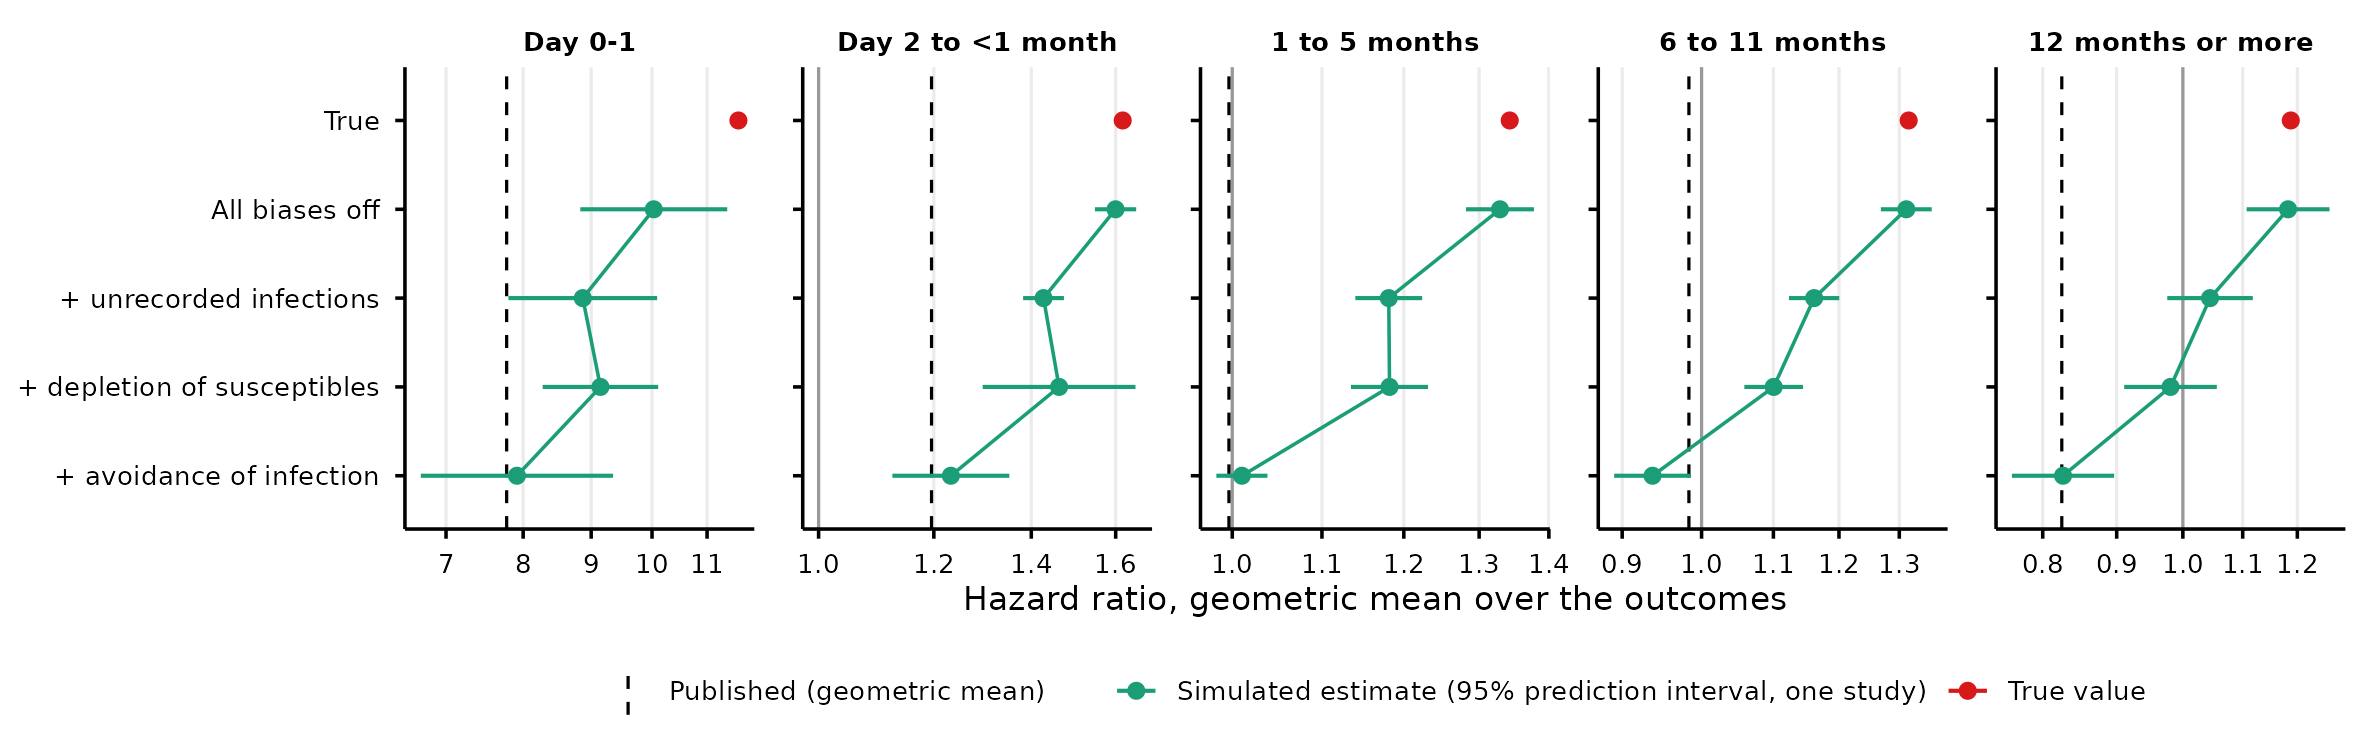
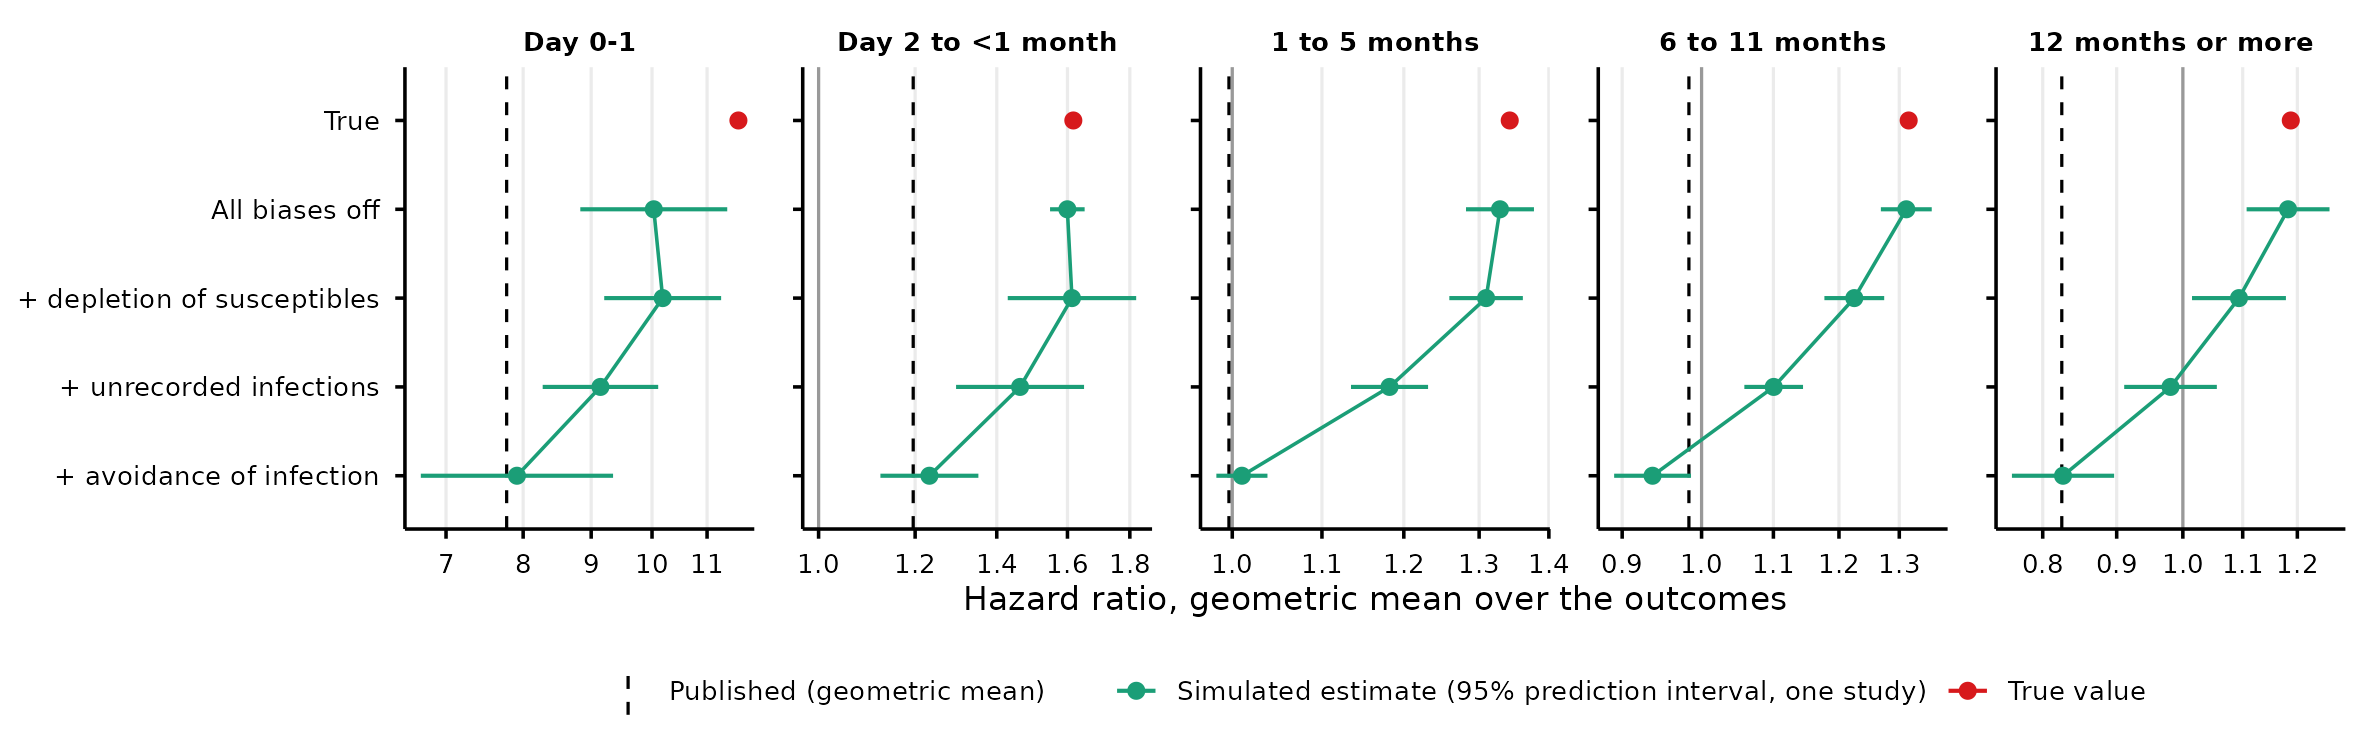
Put depletion of susceptibles first among the biases
Bias.R adds depletion of susceptibles first, then unrecorded
infections, then avoidance of infection. This needs one new setting:
depletion on alone. The full model is unchanged.

diff --git a/README.md b/README.md
@@ -39,7 +39,7 @@ These patterns point to bias, not protection. Persons infected in 2020 and 2021 
 1.  **Cohort.** `Run.R` simulates 10 cohorts of 4,508,489 persons, with the paper’s age distribution and follow-up from 1 March 2020 to 31 December 2022.
 2.  **Infections.** 2,698,261 persons get a recorded infection, as in the paper, timed by the Danish case counts. One third of all infections are unrecorded.
 3.  **True effects.** Each infection multiplies the hazard of each of 15 cardiovascular outcomes by a true hazard ratio for each time window. Every true hazard ratio is at least 1.01.
-4.  **Biases.** Unrecorded infections, depletion of susceptibles and avoidance of infection are built in. The model also lets infection kill some persons. This changes the estimates by 3% or less, so it is not treated as a bias.
+4.  **Biases.** Depletion of susceptibles, unrecorded infections and avoidance of infection are built in. The model also lets infection kill some persons. This changes the estimates by 3% or less, so it is not treated as a bias.
 5.  **Analysis.** Each cohort is analysed approximately as the paper does: one Poisson model per outcome, with person-time split by time window, 5-year age band and calendar year.
 
 The true hazard ratios are fitted, so that the simulated estimates match the published ones. They are at least 1.01 and do not increase with time since infection. [The model](#the-model) gives every input and its source.
@@ -93,29 +93,29 @@ In the 12 months after a recorded infection, the risk of a first cardiovascular 
 
 Each bias below has an example with 100 persons per group. In each example, infection multiplies every person’s risk by 1.20, so the true ratio is 1.20. A high-risk person has a 50% risk and a low-risk person a 5% risk. After each example comes what the bias does in the simulation, at 12 months or more. The biases are added one at a time, in this order.
 
-### Unrecorded infections
-
-About one third of infections in the Omicron wave were not recorded, so some infected persons stay in the comparison group and raise its risk. In the example, 50 of 150 infections are unrecorded, and the study sees 1.09.
-
-**In the simulation:** 1.18 to 1.04.
-
-![Unrecorded infections](figures/illustration_unrecorded.png)
-
 ### Depletion of susceptibles
 
 Infection brings diagnoses forward, most of all in high-risk persons. A person diagnosed is no longer followed. So after a year, the infected group has fewer high-risk persons left than the comparison group. In the example, year 1 shows the true ratio, and year 2 shows 1.10. The paper adds to this: it stops follow-up for every outcome at the first diagnosis of any of the 15 outcomes.
 
-**In the simulation:** 1.04 to 0.98. Depletion needs time to act, so it lowers the estimates only from 6 months on. The table gives the simulated average without and with depletion, with unrecorded infections in both:
+**In the simulation:** 1.18 to 1.09. Depletion needs time to act, so its effect grows with time since infection. The table gives the simulated average without and with depletion, with the other biases off:
 
 | Time window        | Without depletion | With depletion |
 |:-------------------|------------------:|---------------:|
-| Day 0-1            |              8.87 |           9.15 |
-| Day 2 to \<1 month |              1.43 |           1.46 |
-| 1 to 5 months      |              1.18 |           1.18 |
-| 6 to 11 months     |              1.16 |           1.10 |
-| 12 months or more  |              1.04 |           0.98 |
+| Day 0-1            |             10.03 |          10.19 |
+| Day 2 to \<1 month |              1.60 |           1.61 |
+| 1 to 5 months      |              1.33 |           1.31 |
+| 6 to 11 months     |              1.31 |           1.22 |
+| 12 months or more  |              1.18 |           1.09 |
 
 ![Depletion of susceptibles](figures/illustration_depletion.png)
+
+### Unrecorded infections
+
+About one third of infections in the Omicron wave were not recorded, so some infected persons stay in the comparison group and raise its risk. In the example, 50 of 150 infections are unrecorded, and the study sees 1.09.
+
+**In the simulation:** 1.09 to 0.98.
+
+![Unrecorded infections](figures/illustration_unrecorded.png)
 
 ### Avoidance of infection
 
@@ -141,8 +141,8 @@ Each point is the simulated average, with its 95% prediction interval for one st
 |:---|---:|---:|---:|---:|---:|
 | True | 11.61 | 1.62 | 1.34 | 1.32 | 1.19 |
 | All biases off | 10.03 | 1.60 | 1.33 | 1.31 | 1.18 |
-| \+ unrecorded infections | 8.87 | 1.43 | 1.18 | 1.16 | 1.04 |
-| \+ depletion of susceptibles | 9.15 | 1.46 | 1.18 | 1.10 | 0.98 |
+| \+ depletion of susceptibles | 10.19 | 1.61 | 1.31 | 1.22 | 1.09 |
+| \+ unrecorded infections | 9.15 | 1.46 | 1.18 | 1.10 | 0.98 |
 | \+ avoidance of infection | 7.91 | 1.23 | 1.01 | 0.94 | 0.83 |
 | Published | 7.77 | 1.20 | 1.00 | 0.98 | 0.82 |
 
@@ -361,7 +361,7 @@ The values in the first figure, in its order. The last column is the extra rate 
 From the repository root, with R 4.6, data.table, ggplot2, patchwork and knitr:
 
 1.  `Rscript Run.R`: the main simulation. Each cohort needs about 11 GiB of memory, and it runs 2 at a time, so it needs at least 25 GB free.
-2.  `Rscript Bias.R`: the biases and the analysis by variant. It simulates 130 more cohorts.
+2.  `Rscript Bias.R`: the biases and the analysis by variant. It simulates 140 more cohorts.
 3.  `Rscript Illustrations.R`: the three examples.
 4.  `quarto render README.qmd`: this README, from `results/`.
 
